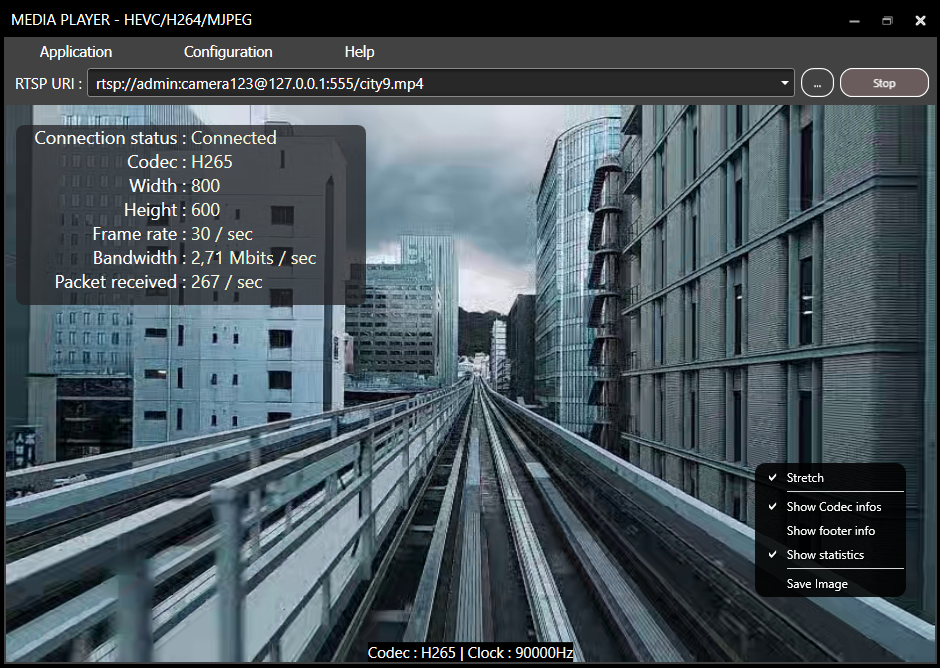
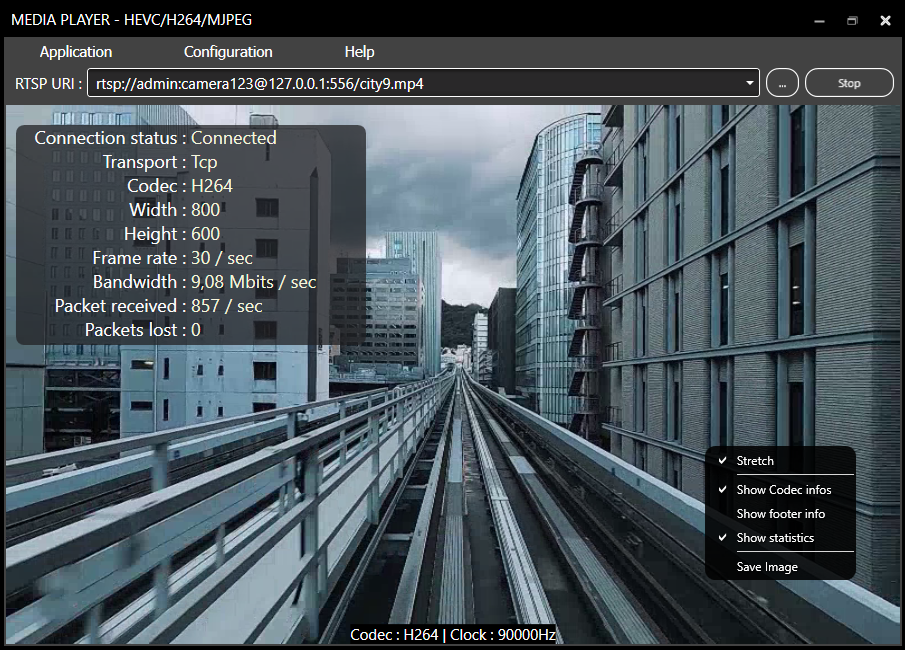
adding the lost packets count into the stats module

diff --git a/RabbitOM.Player/Controls/NetworkStatistics.xaml b/RabbitOM.Player/Controls/NetworkStatistics.xaml
@@ -6,7 +6,7 @@
              xmlns:local="clr-namespace:RabbitOM.Player.Controls"
              xmlns:converters="clr-namespace:RabbitOM.Player.Converters"
              mc:Ignorable="d" 
-             d:DesignHeight="200" 
+             d:DesignHeight="220" 
              d:DesignWidth="350"
              Loaded="OnUserControlLoaded"
              Unloaded="OnUserControlUnloaded"
@@ -176,6 +176,23 @@
                                    />
 
                         <TextBlock Text=" / sec" 
+                                   FontSize="18" 
+                                   Foreground="Beige" 
+                                   />
+
+                    </StackPanel>
+
+                    <StackPanel Orientation="Horizontal">
+
+                        <TextBlock Text="Packets lost : " 
+                                   FontSize="18" 
+                                   Width="175" 
+                                   TextAlignment="Right" 
+                                   HorizontalAlignment="Left"
+                                   Foreground="White" 
+                                   />
+
+                        <TextBlock Text="{Binding PacketsLostCount,Mode=TwoWay,UpdateSourceTrigger=PropertyChanged, RelativeSource={RelativeSource AncestorType=UserControl}}"
                                    FontSize="18" 
                                    Foreground="Beige" 
                                    />

diff --git a/RabbitOM.Player/MainWindow.xaml b/RabbitOM.Player/MainWindow.xaml
@@ -223,7 +223,7 @@
                 <controls:NetworkStatistics x:Name="_statistics" 
                                             Margin="10,20,0,0" 
                                             Width="350"
-                                            Height="200"
+                                            Height="220"
                                             HorizontalAlignment="Left"
                                             VerticalAlignment="Top"
                                             Visibility="{Binding ElementName=menuItemShowStatistics, Path=IsChecked,Converter={StaticResource BooleanVisibilityValueConverter}}"

diff --git a/RabbitOM.Player/Controls/NetworkStatisticsDataSource.cs b/RabbitOM.Player/Controls/NetworkStatisticsDataSource.cs
@@ -14,6 +14,7 @@ namespace RabbitOM.Player.Controls
         private long _frameCount;
         private long _frameHeigth;
         private long _frameWidth;
+        private long _packetsLostCount;
         private long _ticks;
 
         public string GetCodec()
@@ -56,6 +57,11 @@ namespace RabbitOM.Player.Controls
             return Volatile.Read( ref _frameWidth );
         }
 
+        public long GetPacketsLostCount()
+        {
+            return Volatile.Read( ref _packetsLostCount );
+        }
+
         public void Clear()
         {
             _codec = null;
@@ -67,6 +73,7 @@ namespace RabbitOM.Player.Controls
             Interlocked.Exchange( ref _packetReceivedCount , 0 );
             Interlocked.Exchange( ref _frameHeigth , 0 );
             Interlocked.Exchange( ref _frameWidth , 0 );
+            Interlocked.Exchange( ref _packetsLostCount , 0 );
         }
 
         internal void SetCodec( string value )
@@ -93,6 +100,11 @@ namespace RabbitOM.Player.Controls
         {
             Interlocked.Exchange( ref _frameHeigth , height );
             Interlocked.Exchange( ref _frameWidth , width );
+        }
+
+        internal void AddPacketsLost( long value )
+        {
+            IncrementValue( ref _packetsLostCount , value );
         }
 
         internal void AddBytesReceived( long value )
@@ -122,7 +134,9 @@ namespace RabbitOM.Player.Controls
                 throw new ArgumentException( nameof( value ) );
             }
 
-            Interlocked.Add( ref valueMember , value );
+            var sum = valueMember + value; // if the sum is negative, there is an overflow we need to set the max value
+
+            Interlocked.Exchange( ref valueMember , sum >= valueMember ? sum : int.MaxValue );
             Interlocked.Exchange( ref _ticks , Environment.TickCount );
         }
 

diff --git a/RabbitOM/Streaming/Rtp/RtpPacketAggregator.cs b/RabbitOM/Streaming/Rtp/RtpPacketAggregator.cs
@@ -16,8 +16,6 @@ namespace RabbitOM.Streaming.Rtp
 
         private int _maximumNumberOfPackets;
 
-        private int _numberOfPacketsLost;
-
         private IReadOnlyCollection<RtpPacket> _sequence;
 
 
@@ -29,11 +27,6 @@ namespace RabbitOM.Streaming.Rtp
         {
             get => _maximumNumberOfPackets;
             set => _maximumNumberOfPackets = value;
-        }
-
-        public int NumberOfPacketsLost
-        {
-            get => _numberOfPacketsLost;
         }
 
         public bool IsSequenceTooLong
@@ -101,7 +94,6 @@ namespace RabbitOM.Streaming.Rtp
             RemovePackets();
 
             _currentSequenceNumber = null;
-            _numberOfPacketsLost = 0;
         }
 
         public void SortSequence()
@@ -130,11 +122,10 @@ namespace RabbitOM.Streaming.Rtp
             {
                 var diff = Math.Abs( packet.SequenceNumber - _currentSequenceNumber.Value );
 
-                if ( diff != 1 && packet.SequenceNumber > 1 )
+                if ( diff > 1 && packet.SequenceNumber > 1 )
                 {
                     _isUnOrdered = true;
-                    _numberOfPacketsLost = Math.Max( -- diff + _numberOfPacketsLost , _numberOfPacketsLost );
-                    result = diff;
+                    result = diff - 1;
                 }
             }
 

diff --git a/RabbitOM.Player/MainWindow.xaml.cs b/RabbitOM.Player/MainWindow.xaml.cs
@@ -89,6 +89,7 @@ namespace RabbitOM.Player
             _client.Connected += OnConnected;
             _client.Disconnected += OnDisconnected;
             _client.PacketReceived += OnPacketReceived;
+            _frameBuilder.PacketsLost += OnPacketsLost;
             _frameBuilder.MediaBuilded += OnBuildFrame;
             _decoder.Decoded += OnFrameDecoded;
             _statistics.DataSource = _datasource;
@@ -106,6 +107,7 @@ namespace RabbitOM.Player
             _client.Disconnected -= OnDisconnected;
             _client.PacketReceived -= OnPacketReceived;
             _client.Dispose();
+            _frameBuilder.PacketsLost -= OnPacketsLost;
             _frameBuilder.MediaBuilded -= OnBuildFrame;
             _frameBuilder.Dispose();
             _decoder.Decoded -= OnFrameDecoded;
@@ -311,6 +313,11 @@ namespace RabbitOM.Player
 
                 _datasource.IncreasePacketReceived();
             }
+        }
+
+        private void OnPacketsLost( object sender , RtpPacketsLostEventArgs e )
+        {
+            _datasource.AddPacketsLost( e.NumberOfPacketLost );
         }
 
         private void OnBuildFrame( object sender , RtpMediaBuildedEventArgs e )

diff --git a/RabbitOM.Player/Controls/NetworkStatistics.xaml.cs b/RabbitOM.Player/Controls/NetworkStatistics.xaml.cs
@@ -69,6 +69,11 @@ namespace RabbitOM.Player.Controls
 				"FrameCountPerSecond", typeof(long) ,
 					typeof(NetworkStatistics) );
 
+		public static readonly DependencyProperty PacketsLostCountPerSecondProperty
+			= DependencyProperty.Register(
+				"PacketsLostCount", typeof(long) ,
+					typeof(NetworkStatistics) );
+
 
 
 
@@ -130,6 +135,12 @@ namespace RabbitOM.Player.Controls
 			set => SetValue( FrameCountPerSecondProperty , value );
 		}
 
+		public long PacketsLostCount
+		{
+			get => (long) GetValue( PacketsLostCountPerSecondProperty );
+			set => SetValue( PacketsLostCountPerSecondProperty , value );
+		}
+
 
 
 
@@ -177,6 +188,7 @@ namespace RabbitOM.Player.Controls
 			FrameCountPerSecond = source.GetFrameCountPerSecond();
 			FrameHeight = source.GetFrameHeight();
 			FrameWidth = source.GetFrameWidth();
+			PacketsLostCount = source.GetPacketsLostCount();
 		}
 
 

diff --git a/RabbitOM/Streaming/Rtp/RtpFrameBuilder.cs b/RabbitOM/Streaming/Rtp/RtpFrameBuilder.cs
@@ -74,7 +74,7 @@ namespace RabbitOM.Streaming.Rtp
 
                 if ( lostResult > 0 )
                 {
-                    OnPacketsLost( new RtpPacketsLostEventArgs( _aggregator.MaximumNumberOfPackets ) );
+                    OnPacketsLost( new RtpPacketsLostEventArgs( lostResult ) );
                 }
 
                 if ( _aggregator.IsSequenceTooLong )

diff --git a/RabbitOM/Streaming/Rtp/IPacketAggregator.cs b/RabbitOM/Streaming/Rtp/IPacketAggregator.cs
@@ -7,8 +7,6 @@ namespace RabbitOM.Streaming.Rtp
     {
         int MaximumNumberOfPackets { get; set; }
 
-        int NumberOfPacketsLost { get; }
-
         bool IsSequenceTooLong { get; }
 
         bool HasCompleteSequence { get; }

diff --git a/RabbitOM.Player/Controls/IDataSource.cs b/RabbitOM.Player/Controls/IDataSource.cs
@@ -20,6 +20,8 @@ namespace RabbitOM.Player.Controls
 
         long GetFrameHeight();
 
+        long GetPacketsLostCount();
+
         void Clear();
     }
 }
